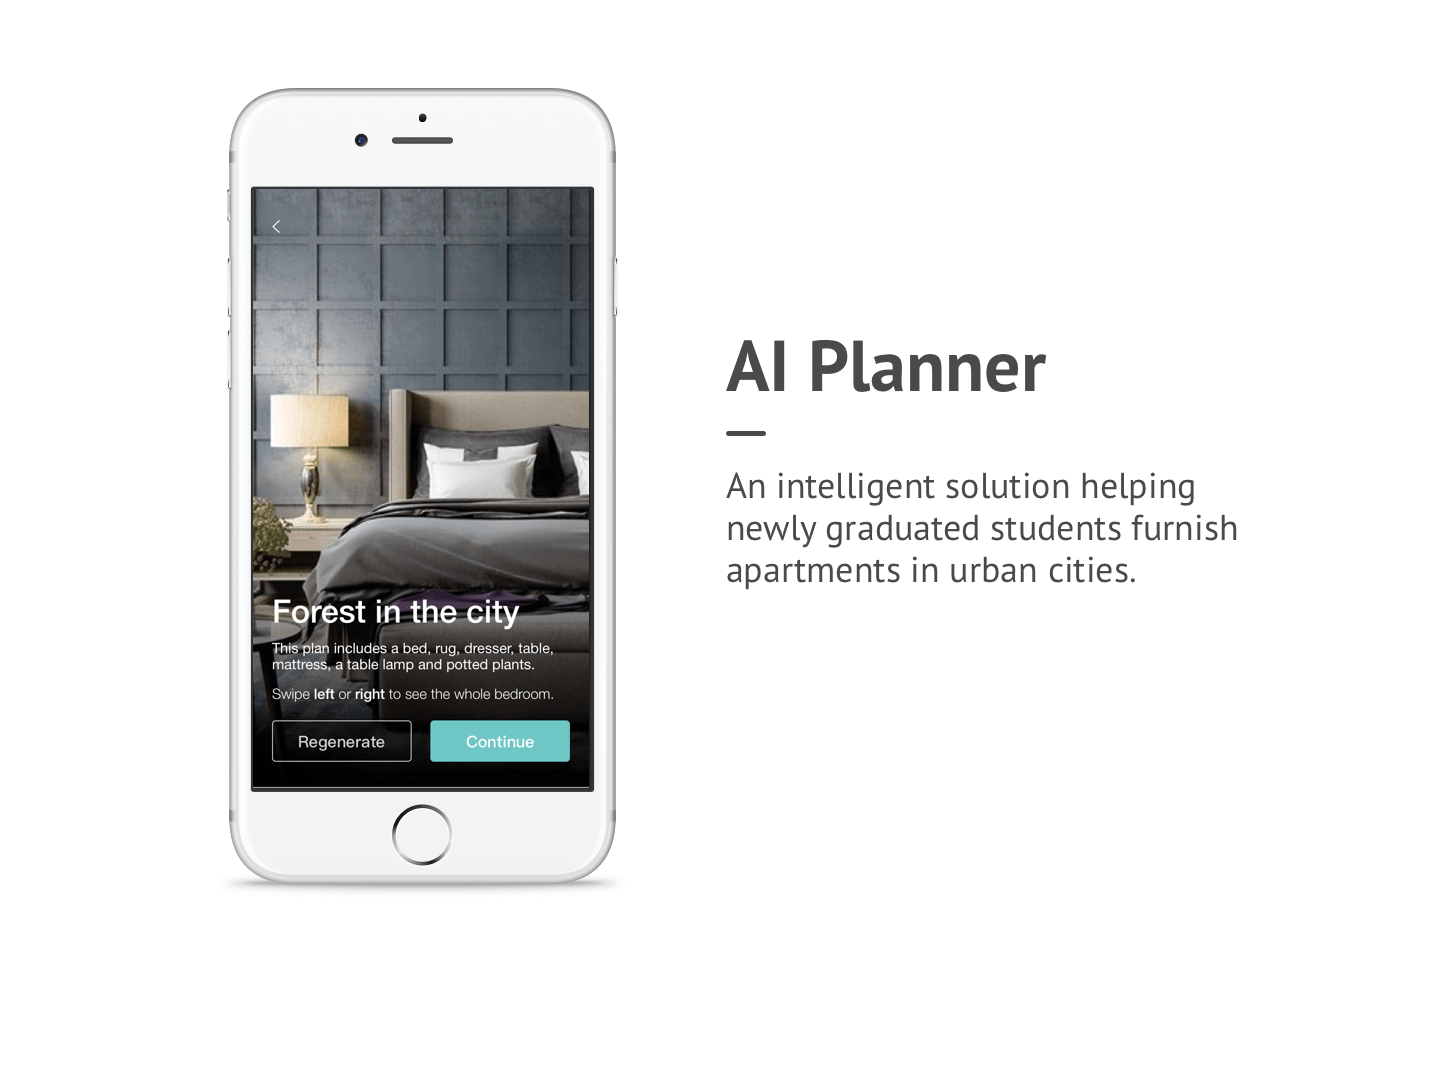
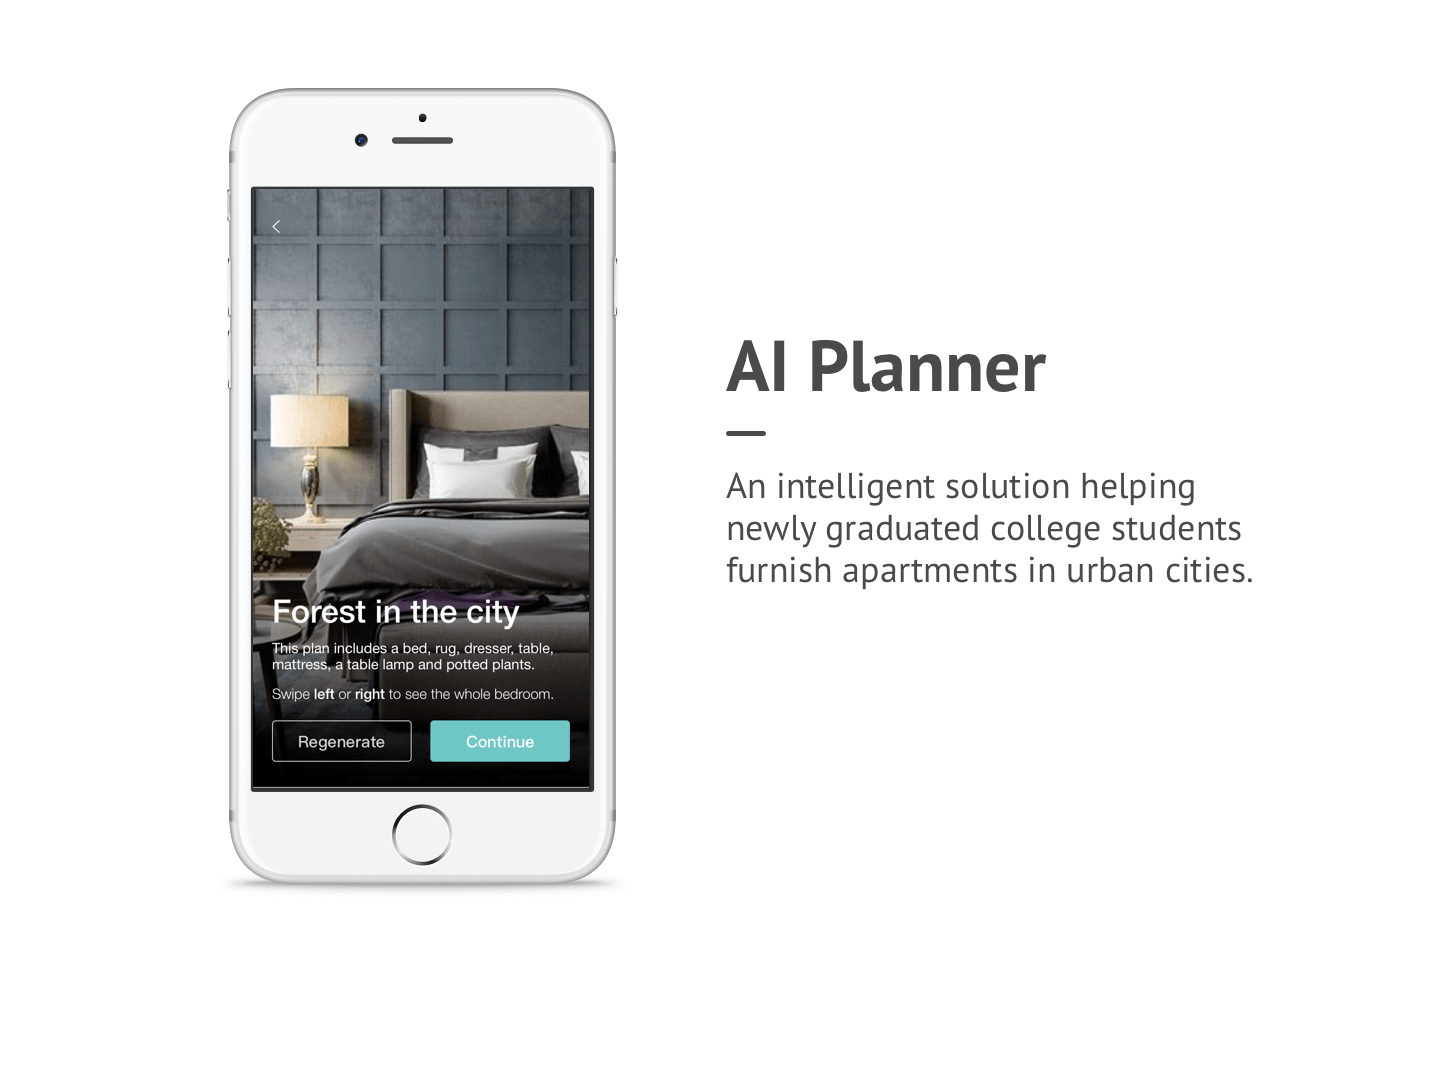
refine details

Changed region(s): [[0.5, 0.4583, 0.875, 0.55]]

diff --git a/project1.html b/project1.html
@@ -89,7 +89,7 @@
                       <div class="row">
                           <div class="col-lg-12 col-md-12 col-sm-12 col-xs-12">
                               <h3 class="overview_subtitle" id="Problem">Problem Statement</h3>
-                              <p class="project-desc"><span style="font-weight: 600">How to improve the experience of furnishing apartments and buying furniture in urban cities for newly graduated students?</span><br></p>
+                              <p class="project-desc"><span style="font-weight: 600">How to improve the experience of furnishing apartments and buying furniture in urban cities for newly graduated college students?</span><br></p>
                               <p class="project-desc">These students often struggle in:<br>
                                 - Furnishing own small urban-city apartments fast and efficient<br>
                                 - Planning the furniture placement and aesthetics<br>

diff --git a/project1_detail.html b/project1_detail.html
@@ -44,7 +44,7 @@
                           <div class="col-lg-12 col-md-12 col-sm-12 col-xs-12">
                               <h3 class="overview_subtitle" id="Objective">Objective</h3>
                               <p class="project-desc">We aim to improve the experience of furnishing apartments and buying furniture in urban 
-                                cities for newly graduated students who struggle in:<br>
+                                cities for newly graduated college students who struggle in:<br>
                                 <span style="font-weight: 600">- Furnishing own small urban-city apartments fast and efficient<br>
                                 - Struggling with furniture placement and aesthetics<br>
                                 - Running on a limited budget for rent, furniture and other services<br></span>

diff --git a/index.html b/index.html
@@ -92,7 +92,7 @@
                   <a  href="project1.html" target="_blank">
                     <div id = "proj1_label" class = "proj_label">
                       <p class="proj_name">AI Planner</p>
-                      <p class="proj_intro">An intelligent solution helping newly graduated students furnish apartments in urban cities.</p>
+                      <p class="proj_intro">An intelligent solution helping newly graduated college students furnish apartments in urban cities.</p>
                       <div id = "proj1_shortline"></div>
 
                       <p class="proj_tag">
